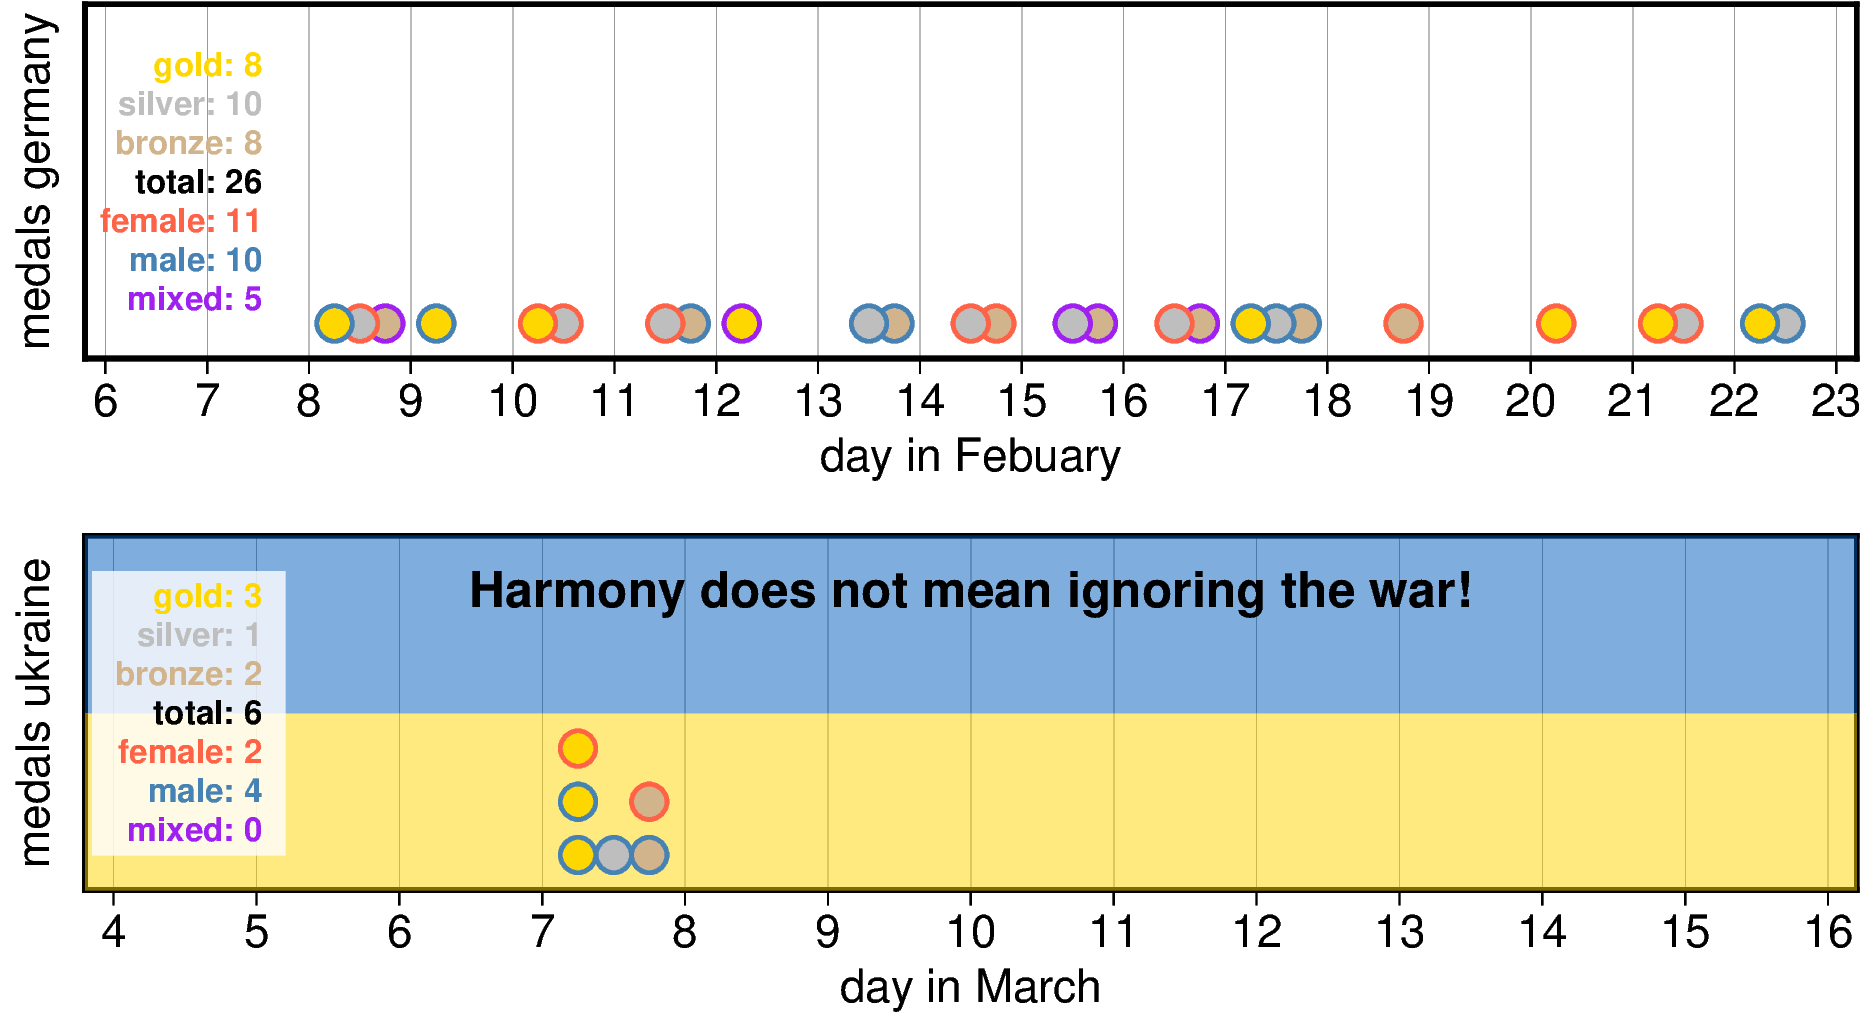
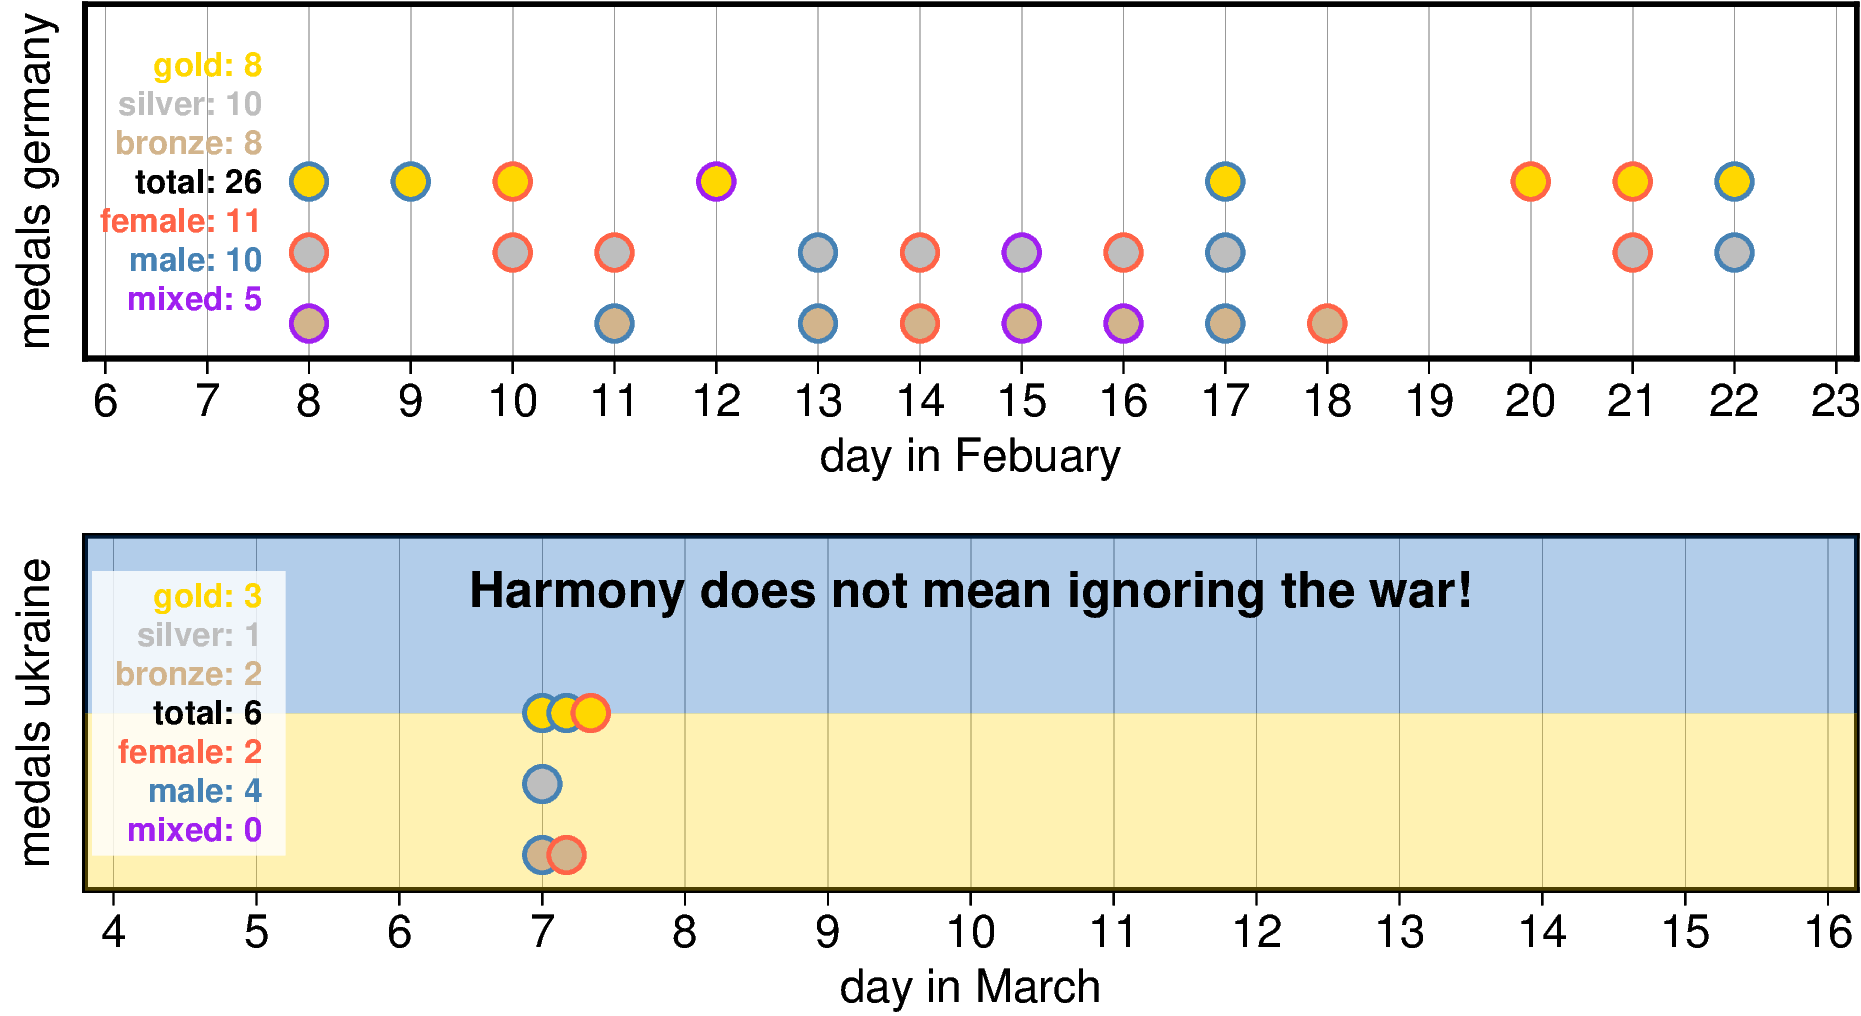
Adjust medals verticaly

diff --git a/016_winter_games_2026/05_medals.py b/016_winter_games_2026/05_medals.py
@@ -53,8 +53,8 @@ for event in ["olympics", "paralympics"]:
         uk_blue = "0/91/187"
         uk_yellow = "255/213/0"
         uk_x = [3.8, 16.2, 16.2, 3.8, 3.8]
-        fig.plot(x=uk_x, y=[0.5, 0.5, 1, 1, 0.5], fill=f"{uk_blue}@50")
-        fig.plot(x=uk_x, y=[0, 0, 0.5, 0.5, 0], fill=f"{uk_yellow}@50")
+        fig.plot(x=uk_x, y=[0.5, 0.5, 1, 1, 0.5], fill=f"{uk_blue}@70")
+        fig.plot(x=uk_x, y=[0, 0, 0.5, 0.5, 0], fill=f"{uk_yellow}@70")
         fig.text(
             x=10,
             y=0.85,
@@ -73,28 +73,18 @@ for event in ["olympics", "paralympics"]:
 
         if len(df_medals_day) > 0:
 
-            for medal, color, xshift in zip(
+            for medal, color, y_color in zip(
                 ["bronze", "silver", "gold"],
                 ["tan", "gray", "gold"],
-                [0.75, 0.5, 0.25]
+                [0.1, 0.3, 0.5]
             ):
                 df_medals_color = df_medals_day[df_medals_day["medal"] == medal]
                 N_color = len(df_medals_color)
 
                 if N_color > 0:
-
-                    y_step = 0.15
-
-                    fig.plot(
-                        x=[day + xshift] * N_color,
-                        y=np.arange(0, np.round(N_color * y_step, 2), y_step) + 0.1,
-                        style="c0.3c",
-                        fill=color,
-                    )
-
                     for ic in range(N_color):
-                        gender_temp = df_medals_color["gender"].tolist()[ic]
 
+                        gender_temp = df_medals_color["gender"].tolist()[ic]
                         if gender_temp == "F":
                             pen = "tomato"
                         elif gender_temp == "M":
@@ -103,9 +93,10 @@ for event in ["olympics", "paralympics"]:
                             pen = "purple"
 
                         fig.plot(
-                            x=day + xshift,
-                            y=y_step * ic + 0.1,
+                            x=0.17 * ic + day,
+                            y=y_color,
                             style="c0.3c",
+                            fill=color,
                             pen=f"1p,{pen}",
                         )
 
